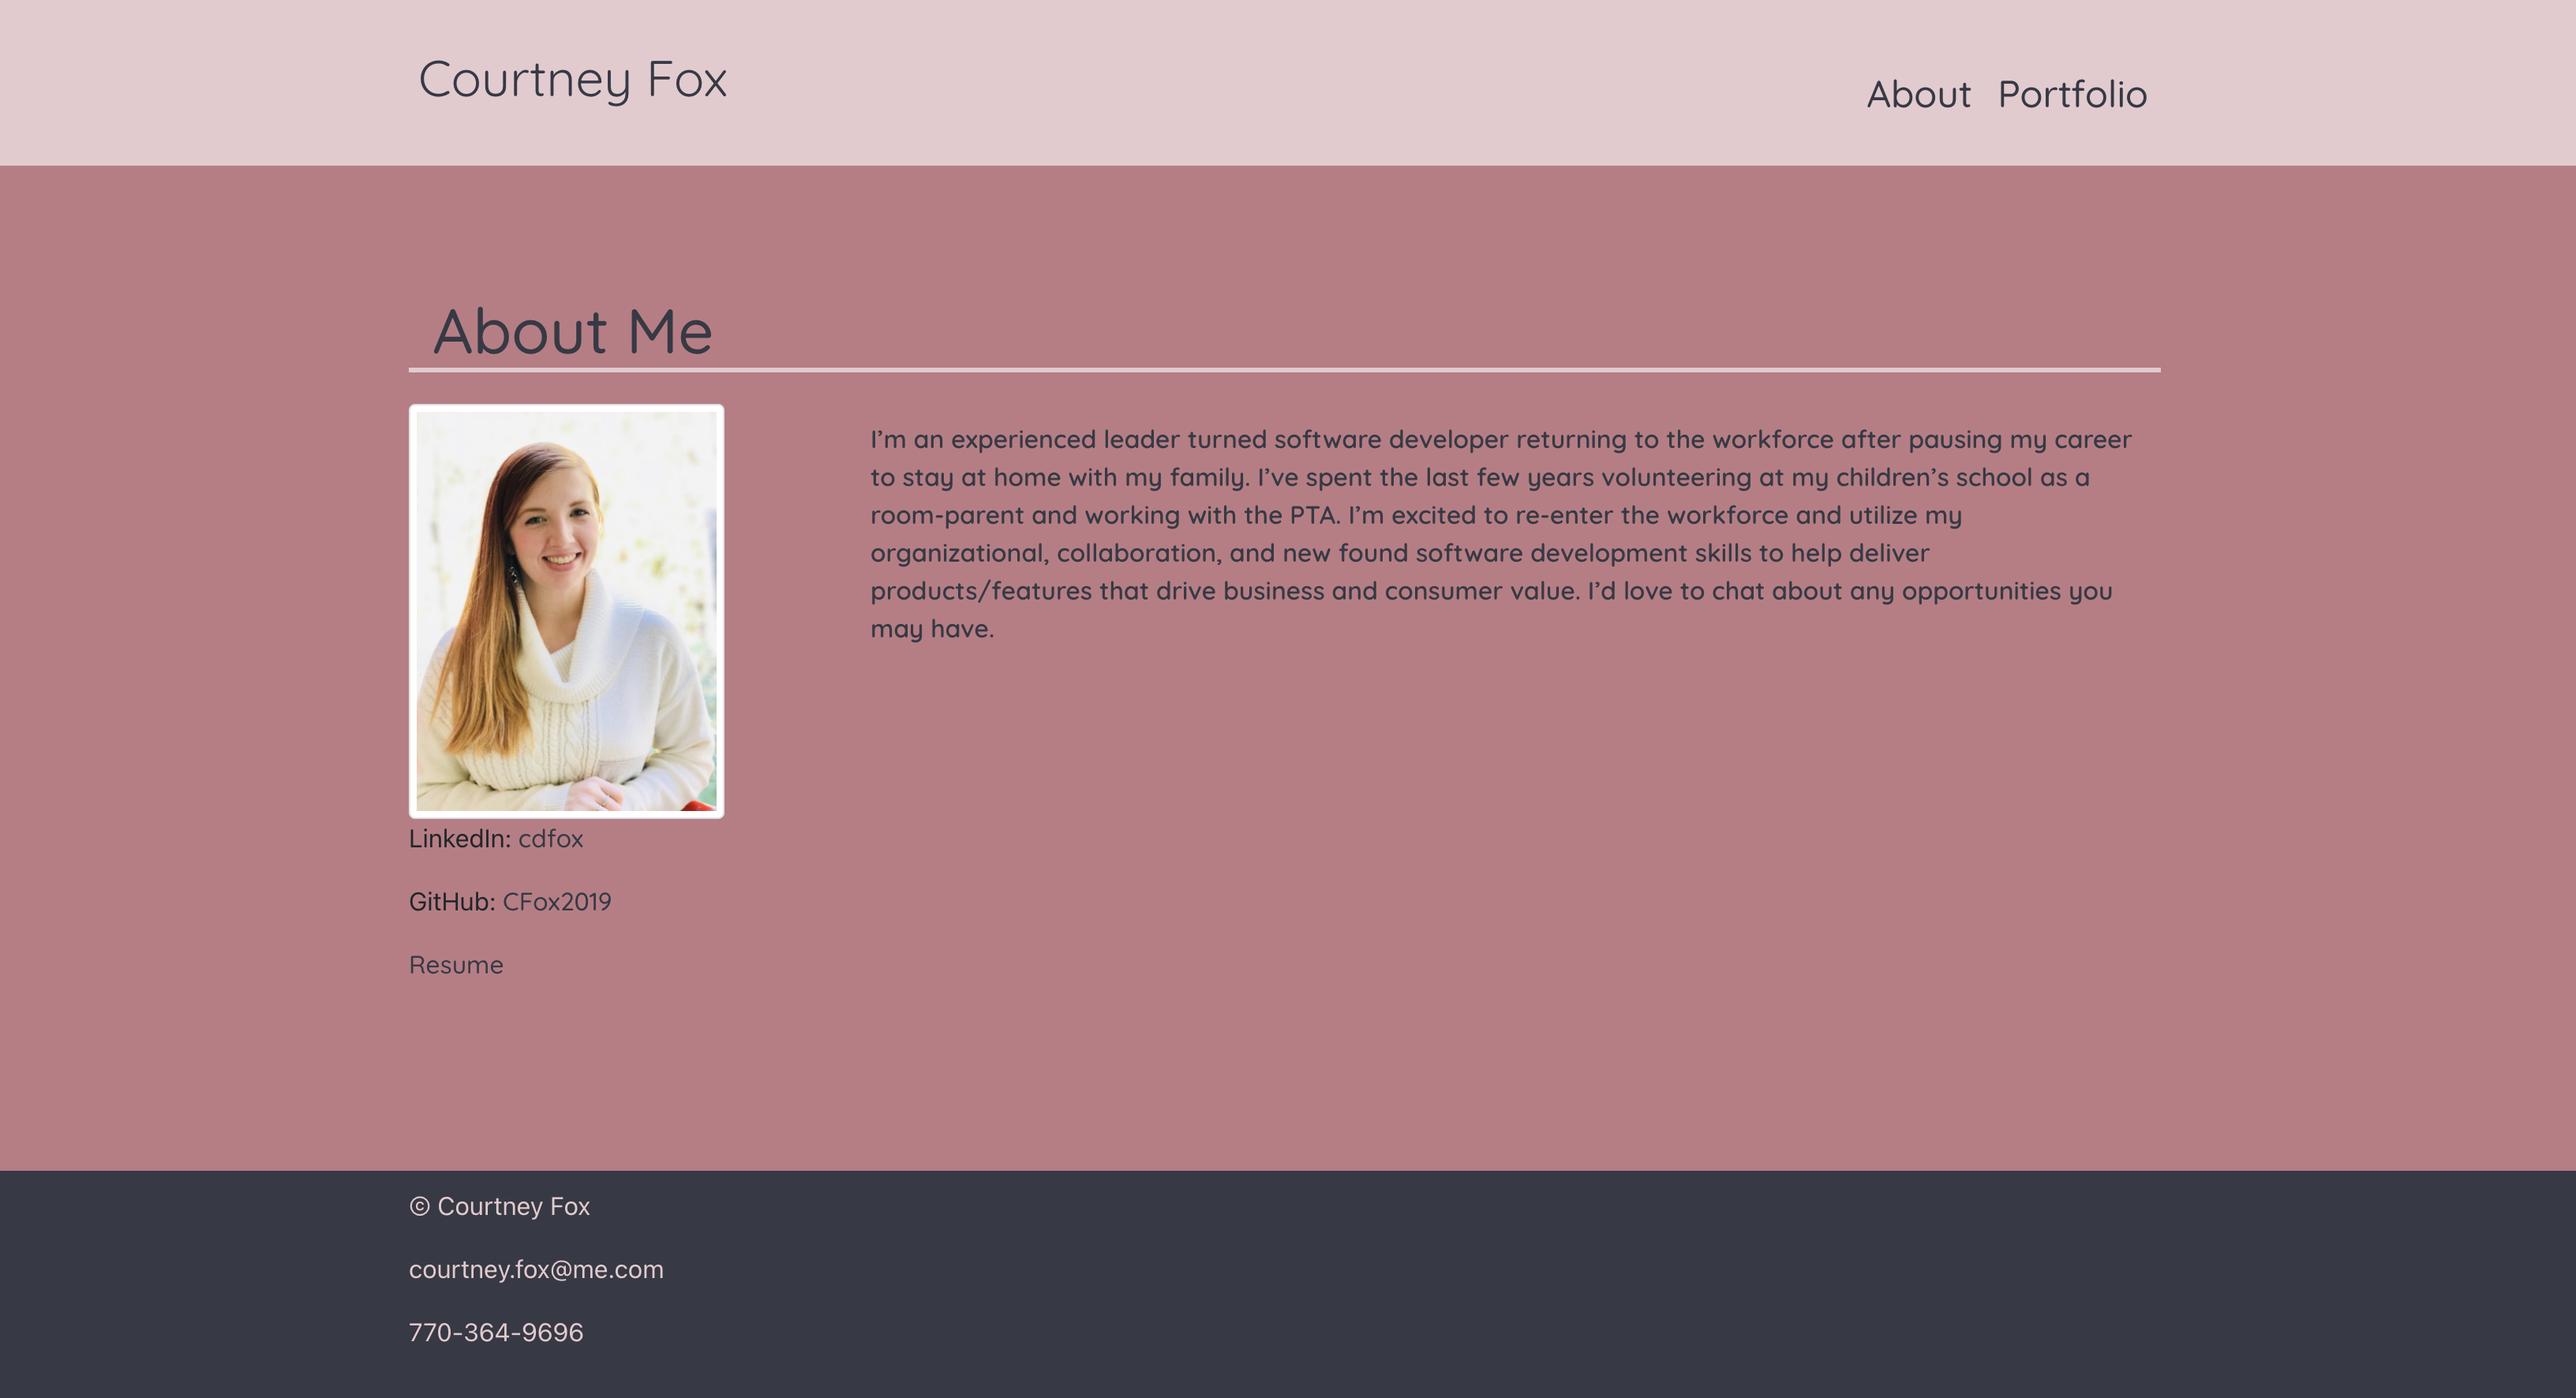
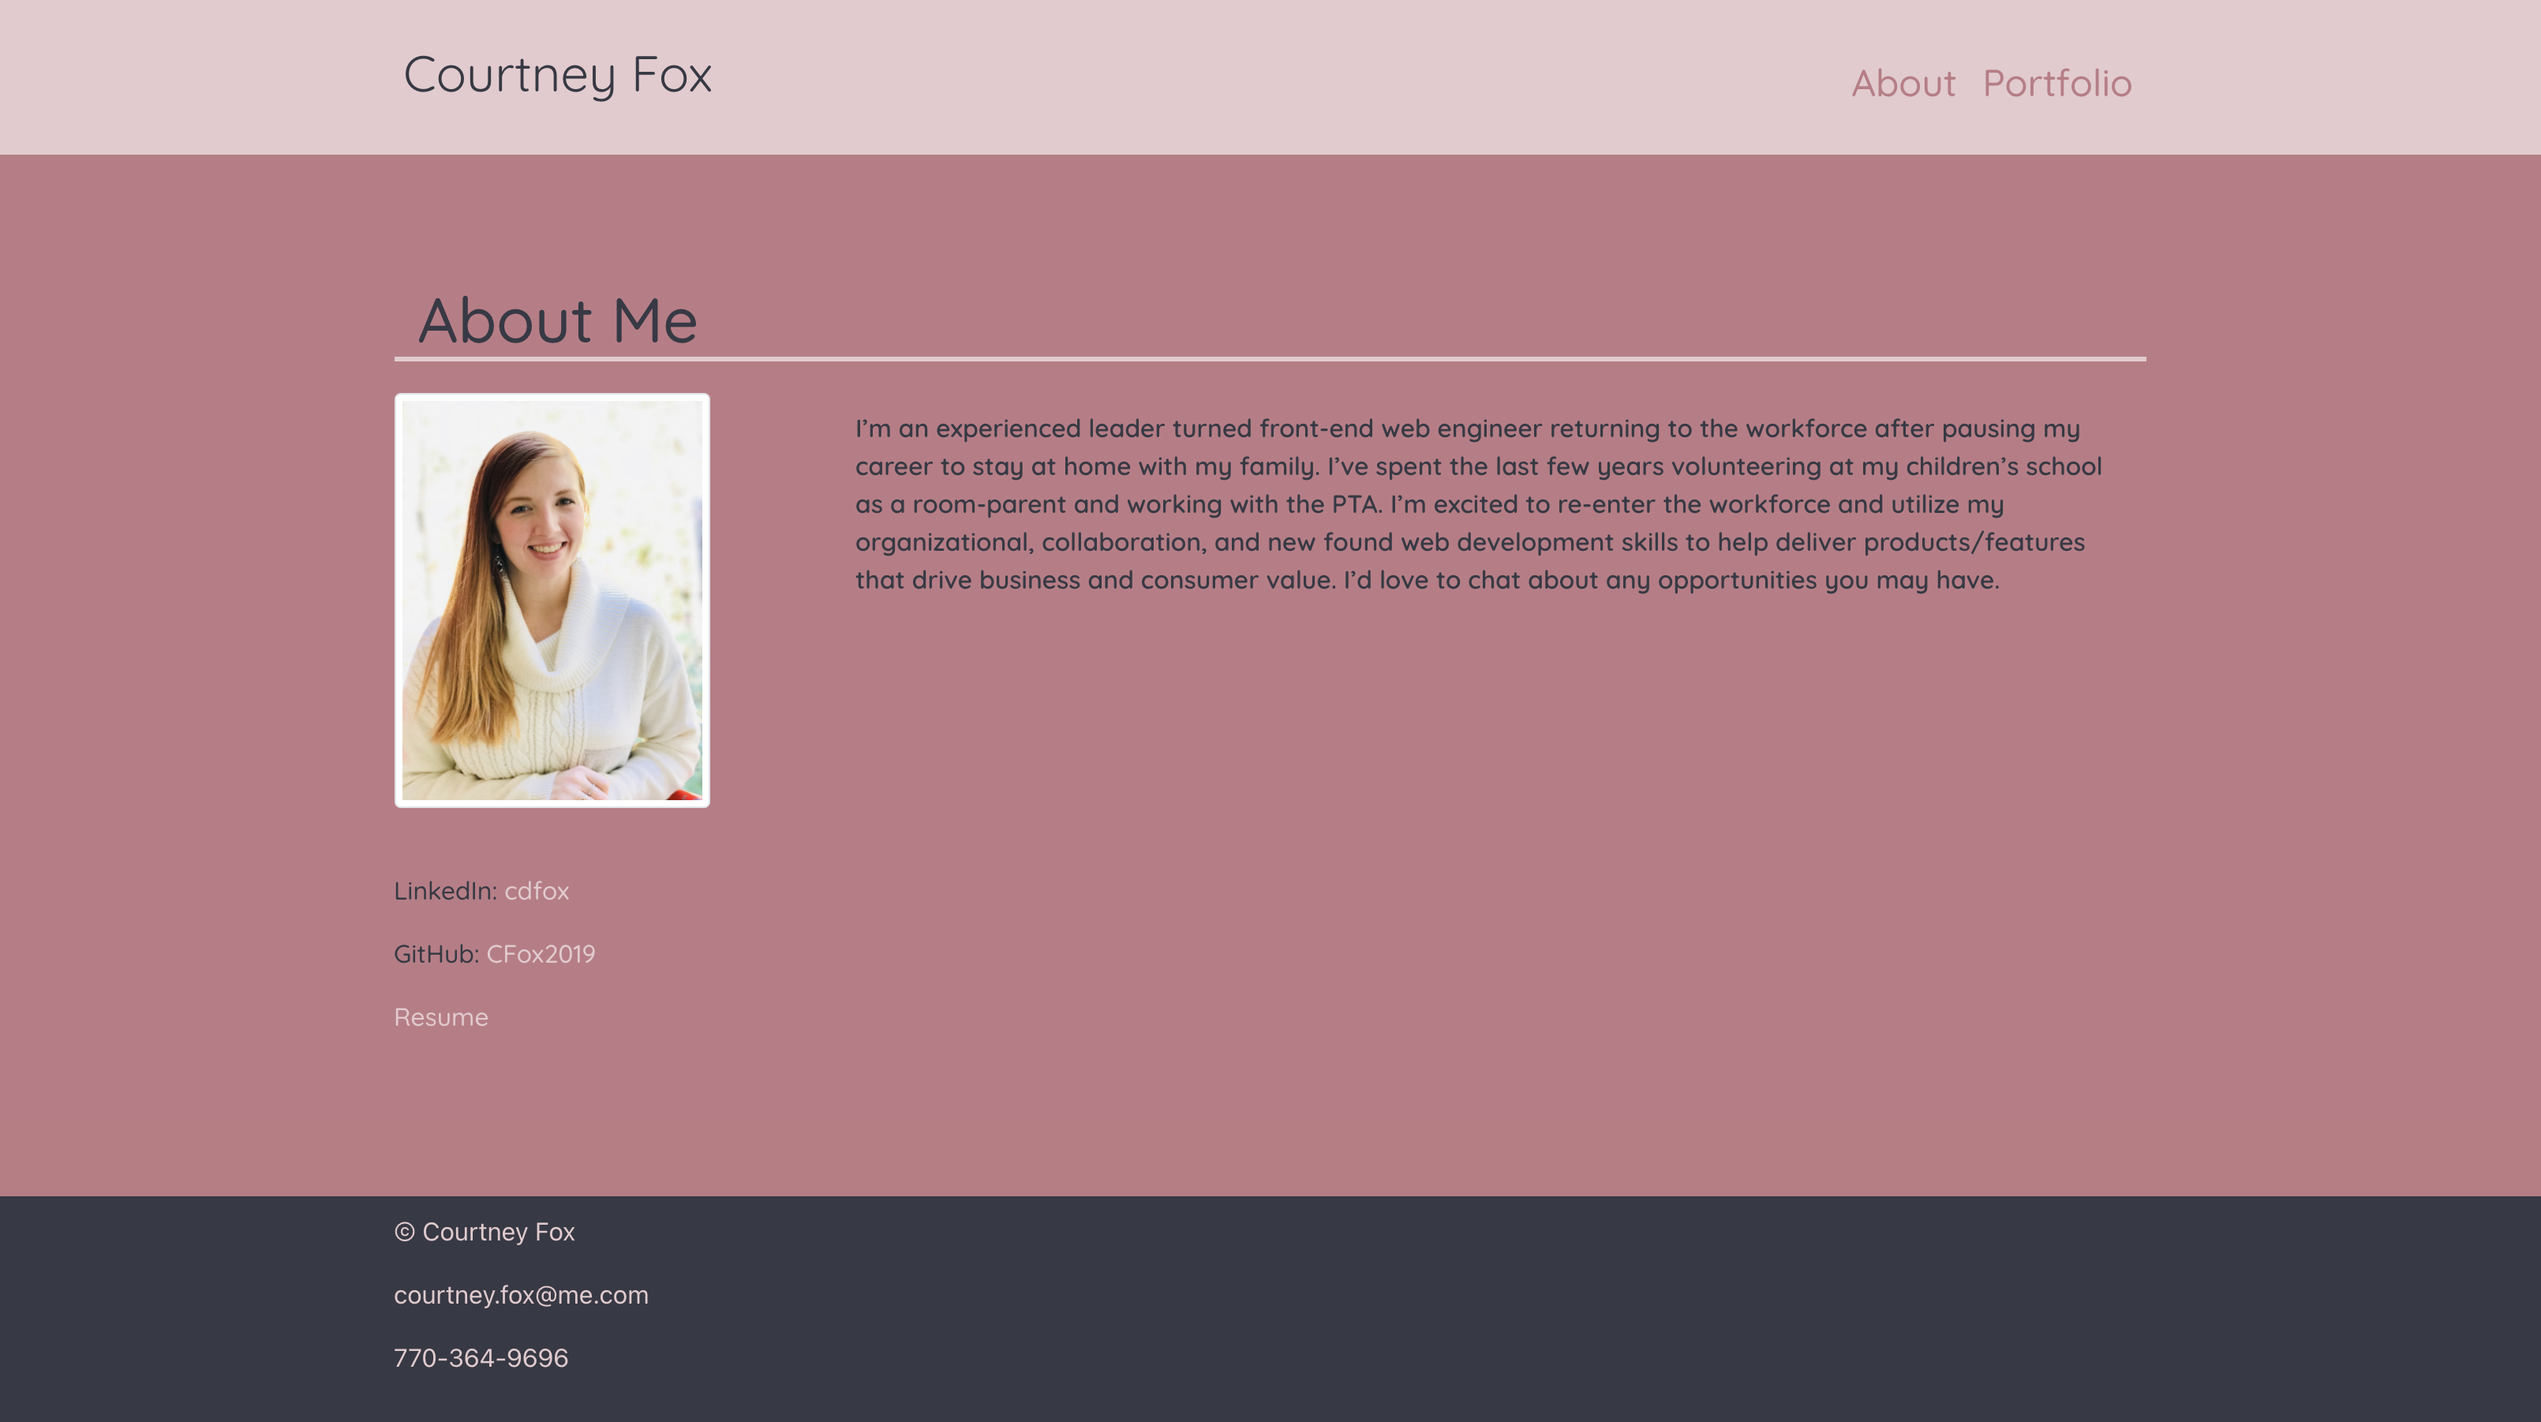
updated README with current screenshots of portfolio

diff --git a/src/components/AboutMe.js b/src/components/AboutMe.js
@@ -10,7 +10,7 @@ function AboutMe() {
           <img src={me} alt="profile" className="img-thumbnail rounded about-me-img" />
         </Col>
         <Col size="md-9" className="about-me-p">
-          I’m an experienced leader turned web developer returning
+          I’m an experienced leader turned front-end web engineer returning
           to the workforce after pausing my career to stay at home with
           my family. I’ve spent the last few years volunteering at my
           children’s school as a room-parent and working with the PTA.
